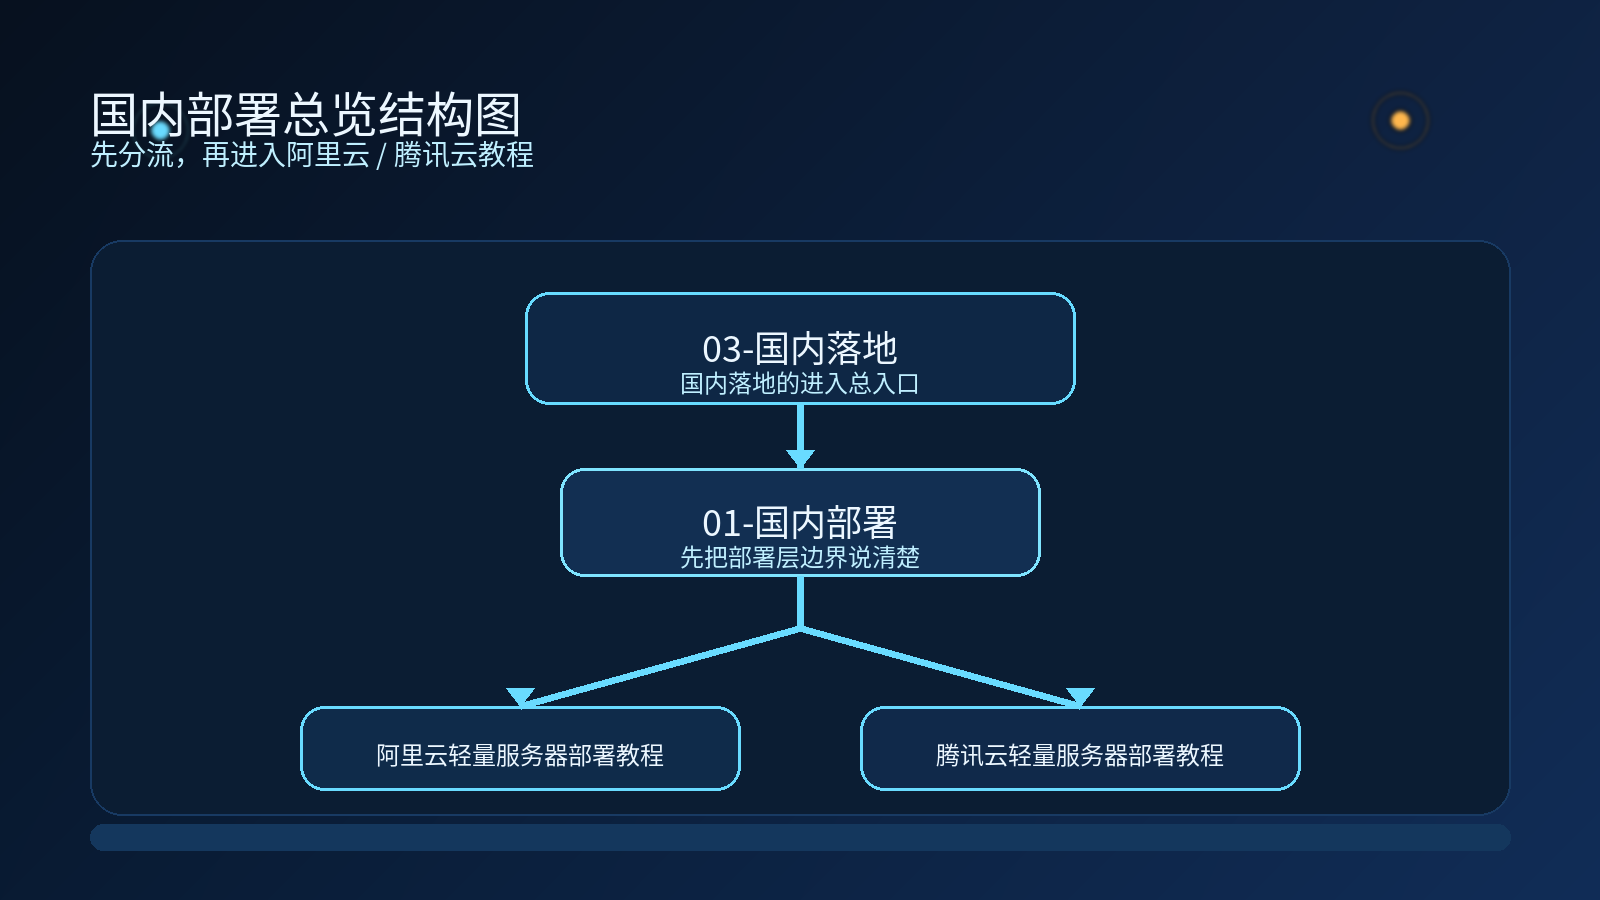
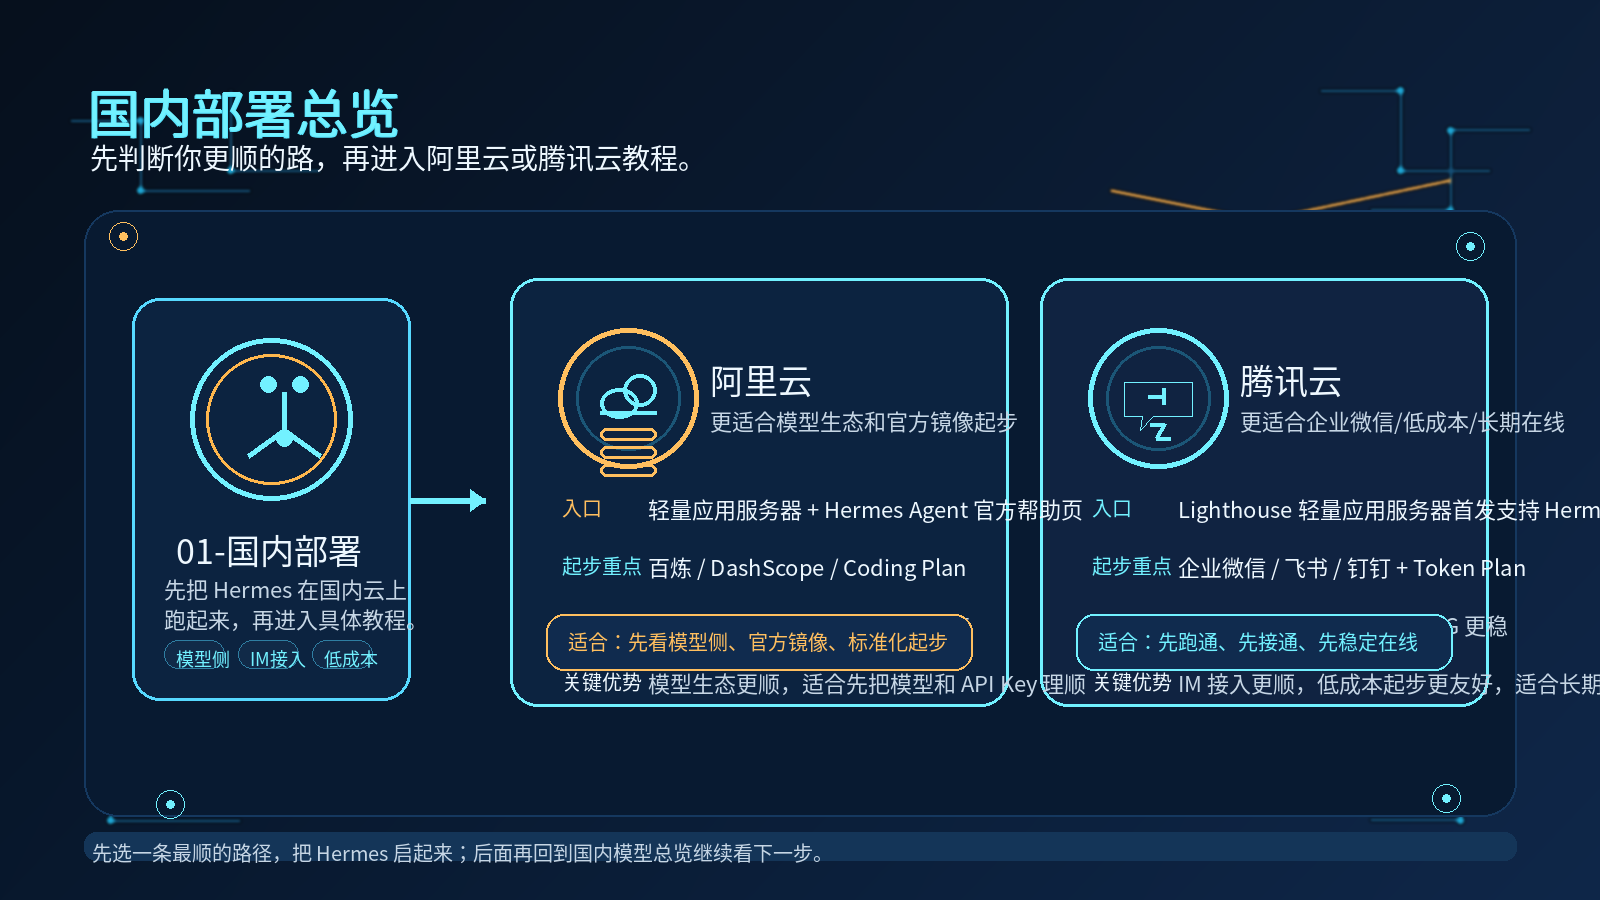
docs: refine domestic deployment overview layout

diff --git a/docs/03-国内落地/01-国内部署/01-总览.md b/docs/03-国内落地/01-国内部署/01-总览.md
@@ -2,68 +2,74 @@
 
 ![国内部署总览结构图：从 03-国内落地 进入 01-国内部署，再分流到阿里云轻量服务器部署教程和腾讯云轻量服务器部署教程](../../assets/03-domestic-deploy-overview-map.png)
 
-这一页只做一件事：帮你把 Hermes 在国内云上先跑起来。
+这一页的作用很简单：先帮你选对国内部署入口，再进入对应教程。
 
-如果你已经决定走国内部署，这里不用再反复做选择题，直接按你的目标进入对应教程就行。
+---
 
-## 先按你的目标选
+## 🧭 先看你现在更像哪种情况
 
-### 如果你更看重模型侧和官方镜像
-先去阿里云。
+<table>
+  <colgroup>
+    <col style="width: 26%;" />
+    <col style="width: 28%;" />
+    <col style="width: 46%;" />
+  </colgroup>
+  <thead>
+    <tr>
+      <th>你的情况</th>
+      <th>先去哪里</th>
+      <th>这一页会帮你什么</th>
+    </tr>
+  </thead>
+  <tbody>
+    <tr>
+      <td>🟠 更看重模型侧、官方镜像、百炼 / DashScope / Qwen</td>
+      <td><a href="../阿里云轻量服务器部署教程.md"><strong>阿里云轻量服务器部署教程</strong></a></td>
+      <td>
+        <ul>
+          <li>先把模型和 API Key 这条线理顺</li>
+          <li>按官方镜像和标准化起步</li>
+          <li>走更偏模型生态的国内部署路径</li>
+        </ul>
+      </td>
+    </tr>
+    <tr>
+      <td>🔵 更看重 IM 接入、低成本起步、长期在线</td>
+      <td><a href="../腾讯云轻量服务器部署教程.md"><strong>腾讯云轻量服务器部署教程</strong></a></td>
+      <td>
+        <ul>
+          <li>先把部署和聊天通道接起来</li>
+          <li>优先企业微信 / 飞书 / 钉钉</li>
+          <li>走更稳、更适合长期在线的国内部署路径</li>
+        </ul>
+      </td>
+    </tr>
+    <tr>
+      <td>🟢 OpenClaw 老用户，想顺着原来的工作重心迁移</td>
+      <td>先选最像你原来用法的那条路</td>
+      <td>
+        <ul>
+          <li>聊天通道重心更强 → 先看腾讯云</li>
+          <li>模型生态重心更强 → 先看阿里云</li>
+          <li>先跑通第一台机器，比一次性想全更重要</li>
+        </ul>
+      </td>
+    </tr>
+  </tbody>
+</table>
 
-阿里云这条路更适合这类情况：
+---
 
-- 你更关注阿里云自己的大模型生态，比如百炼 / DashScope / Qwen
-- 你希望用官方预装镜像或官方最佳实践直接起步
-- 你更想先把模型调用、API Key、Coding Plan 这条线理顺
-- 你希望起步方式尽量标准化，少走绕路
+## ✨ 快速判断
 
-阿里云官方这条线的信号很明确：
+- 你更在意模型和标准化镜像 → 先去阿里云
+- 你更在意企业微信和低成本起步 → 先去腾讯云
+- 你还没部署过一次 → 先把国内部署跑通
+- 你已经部署完了 → 再去看国内模型总览
 
-- 轻量应用服务器是主要入口
-- Hermes Agent 有官方帮助页和最佳实践页
-- 默认建议实例内存 2GiB 及以上
-- 默认地域是北京
-- 模型侧默认会落到百炼 / Coding Plan 这类路径上
+---
 
-### 如果你更看重 IM 接入和低成本起步
-先去腾讯云。
-
-腾讯云这条路更适合这类情况：
-
-- 你更在意企业微信、飞书、钉钉这类聊天通道
-- 你希望先用 Lighthouse 快速起一台能长期在线的机器
-- 你更在意“先跑起来、先接通、先能用”
-- 你想从低成本配置开始，再按需升级
-
-腾讯云官方这条线的信号也很明确：
-
-- Lighthouse 首发支持 Hermes Agent
-- 官方强调 7×24 小时在线和本地数据隔离
-- 选配时明确建议国内模型配国内地域，聊天通道也优先国内地域
-- 2核4G 是更稳的起步建议，2核2G 只适合简单体验
-- Token Plan 对 AI 编码场景的价格优势很强
-
-### 如果你是 OpenClaw 老用户
-你可以把这页当成“换到 Hermes 之后，先从哪条国内路起步”的入口。
-
-一般可以这样理解：
-
-- 你原来主要靠聊天通道协作，先看腾讯云
-- 你原来主要靠模型生态和标准化镜像，先看阿里云
-
-不要在这里重新研究一遍整个体系，先选一条你最顺的路，跑通第一台机器更重要。
-
-## 默认怎么走
-
-如果你现在还没有明确偏好，建议按这个顺序：
-
-1. 先看这一页，确认自己要走国内部署
-2. 如果你更偏模型和百炼体系，直接进阿里云教程
-3. 如果你更偏企业微信 / 飞书 / 钉钉和低成本起步，直接进腾讯云教程
-4. 部署完成后，再去看国内模型总览
-
-## 这一页的任务边界
+## 📌 这页只负责什么
 
 这一页只负责把入口分清楚。
 
@@ -76,7 +82,7 @@
 
 这些内容都放到后面的具体页面里。
 
-> 现在最重要的不是把所有路径讲完，而是先选对一条最顺的路径，把 Hermes 启起来。
+---
 
 ## ➡ 下一步
 
